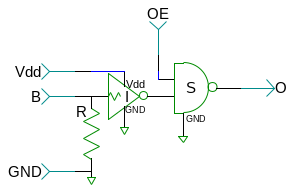
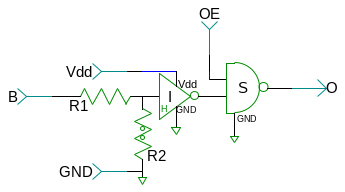
Adjust the ROM readout.

Changed region(s): [[0.0, 0.0312, 0.7959, 0.9688], [0.8878, 0.4062, 0.9796, 0.5], [0.8265, 0.4375, 0.8571, 0.4688]]

diff --git a/docs/romio.md b/docs/romio.md
@@ -1,5 +1,5 @@
 # romio.sch schematic
 ![romio.sch](romio.png)
 # Gates in romio.sch
-[ ![notb](notb-sym.png) ](notb.html)
 [ ![nandod](nandod-sym.png) ](nandod.html)
+[ ![noth](noth-sym.png) ](noth.html)
